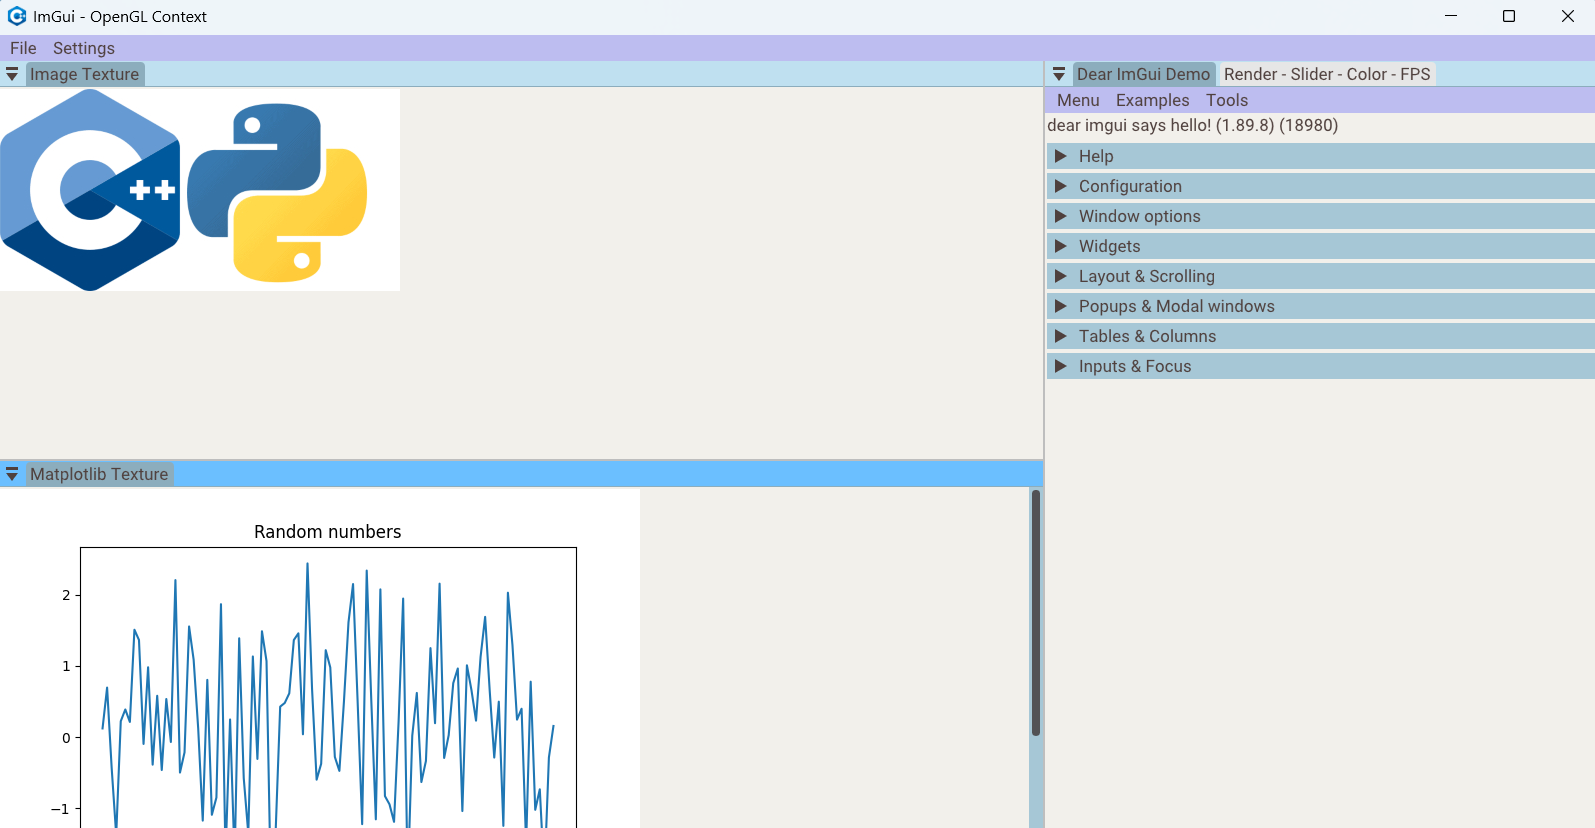
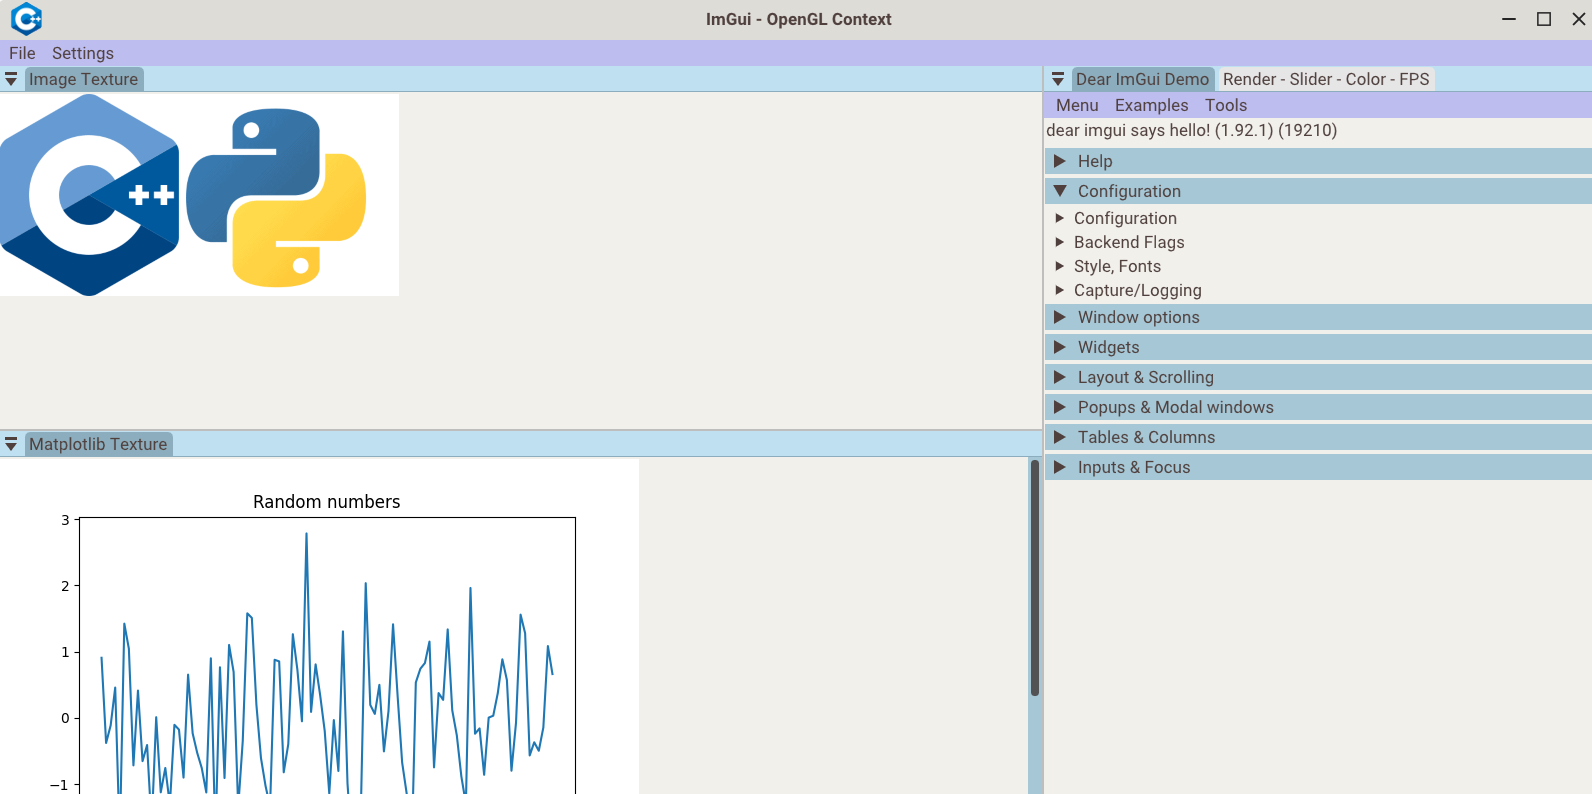
Update README - Custom Titlebar Layer

Changed region(s): [[0.0, 0.0, 1.0, 0.665], [0.0308, 0.6952, 0.3693, 1.0]]

diff --git a/src/example_app/ui_layers/custom_main_menu_bar.cpp b/src/example_app/ui_layers/custom_main_menu_bar.cpp
@@ -43,7 +43,7 @@ void ShowStyleEditor(Application* app, std::string& style, float& size)
 	}
 }
 
-export class MenuBar : public Layer
+export class CustomMenuBar : public Layer
 {
 	bool show_style_editor = false;
 	std::string m_gui_style;
@@ -53,7 +53,7 @@ export class MenuBar : public Layer
 	bool first_render = true;
 
 public:
-	MenuBar(Application* app) : m_app(app)
+	CustomMenuBar(Application* app) : m_app(app)
 	{
 		m_gui_style = GetConfigVariable<std::string>(app->m_executable_path, "GuiStyle");
 		m_font_size = GetConfigVariable<float>(app->m_executable_path, "FontSize");

diff --git a/src/example_app/main.cpp b/src/example_app/main.cpp
@@ -40,10 +40,11 @@ int Main(int argc, char** argv)
     });
 
     app->PushLayerApp<TitleBar>();
-    app->PushLayerApp<MenuBar>();
+    app->PushLayerApp<CustomMenuBar>();
 
     /*BeginMainMenuBar cannot be used with a Custom Titlebar, 
     because it is always anchored to the main viewport at (0,0)*/
+    //If dont use the custom titlebar you can activate the SetWindowIcon
     //app->SetWindowIcon(g_icon_app, g_icon_app_len);
     //app->PushLayerApp<MainMenuBar>();
 

diff --git a/README.md b/README.md
@@ -65,8 +65,10 @@ conda env list
 ```
 
 ## 3. Build
+
 > [!IMPORTANT]
 > This template now uses GLAD2. Key changes:
+>
 > - GLAD sources are automatically generated during the CMake build
 > - Python 3.10+ with Jinja2 is required at configure/build time
 > - A new CMake variable PYTHON_PATH can be defined to specify the Python environment path
@@ -121,6 +123,22 @@ echo $XDG_SESSION_TYPE
 
 ## 5. Additional characteristics
 
+## Custom Title Bar Layer
+
+This template supports a custom title bar, implemented as a separate ImGui Layer. This allows full control over its appearance, the addition of custom buttons, and manual window dragging. The custom title bar is managed just like any other Layer in the application.
+
+To enable it, set `custom_title_bar` to `true` during Application initialization. When enabled, the template automatically calls `glfwWindowHint(GLFW_DECORATED, GLFW_FALSE);`. This disables the operating system title bar, giving your custom layer full control over the window header.
+
+Features of the custom title bar include:
+
+- Customizable background color depending on the style (Light / Dark)
+- Minimize, Maximize / Restore, and Close buttons
+- Optional rounded corners on specific buttons
+- Centered title text
+- Integrates with the application's ImGui layer system
+
+## Windows system icon and Linux launcher
+
 Added a method to set a custom window icon in the Application class. This uses glfwSetWindowIcon to apply a custom icon to the application window.
 
 ```cpp
@@ -149,7 +167,7 @@ The .ico was created using GIMP with the following steps:
 \- Scale your image to 16x16, 32x32, 64x64, 128x128 and 256x256 pixels, using the tool Image Menu > Scale Image  
 \- Export each image to .png (e.g. icon_16.png) in File Menu > Export As  
 \- Load all images using the Open as Layers option in the File Menu  
-\- Export your project layers in File Menu > Export As using the extension Microsoft Windows icon (.ico)  
+\- Export your project layers in File Menu > Export As using the extension Microsoft Windows icon (.ico)
 
 Additionally, the creation of a Linux application launcher with an assigned icon and taskbar integration is described below:
 
@@ -157,7 +175,7 @@ Additionally, the creation of a Linux application launcher with an assigned icon
 \- Add the path to the `/bin` directory to your `.profile` file to make the launcher accessible system-wide. The .profile file is located in the home folder and the path is added with the following line `export PATH="/path/folder/bin:$PATH"`  
 \- Open MenuLibre -> Add a New Launcher -> Replace the name with your application's name -> Insert the executable name in the Command section -> Select the file to use as the logo associated with the launcher  
 \- If the application icon doesn't appear correctly in the taskbar when launched, you need to add `StartupWMClass=WM_Class` to the .desktop file located in `/home/.local/share/applications/menulibre-launchername.desktop`  
-\- To get the WM Class of an application, first open the app, then run the command `xprop | grep WM_CLASS` in a terminal. When prompted, click inside the application's window. The terminal will output something like WM_CLASS(STRING) = "example-class", "example-class", which you can use as the value for StartupWMClass in the `.desktop` file.  
+\- To get the WM Class of an application, first open the app, then run the command `xprop | grep WM_CLASS` in a terminal. When prompted, click inside the application's window. The terminal will output something like WM_CLASS(STRING) = "example-class", "example-class", which you can use as the value for StartupWMClass in the `.desktop` file.
 
 ## 6. Utils
 
@@ -167,5 +185,3 @@ Additionally, the creation of a Linux application launcher with an assigned icon
   <img src="assets/app_template.png" />
 </h1>
 <center>Basic application in the template</center>
-
-
